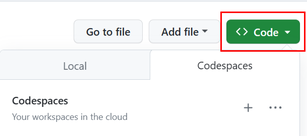
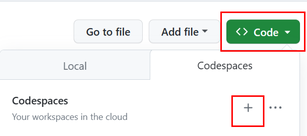
Reorder steps. Fix image.

Changed region(s): [[0.7329, 0.6765, 0.8795, 0.9412]]

diff --git a/articles/python/configure-python-web-app-codespaces.md b/articles/python/configure-python-web-app-codespaces.md
@@ -24,24 +24,24 @@ There are many possible paths to create and use GitHub Codespaces. This tutorial
 
 1. Go to sample app repo at [https://github.com/Azure-Samples/msdocs-fastapi-postgres-codespace][0].
 
-    The sample repo has all the configuration needed to create a FastAPI app with a Postgres database environment and run them in an environment. You can create a similar project following the steps in [Setting up a Python project for GitHub Codespaces][8].
+    The sample repo has all the configuration needed to create an environment with FastAPI app using a Postgres database. You can create a similar project following the steps in [Setting up a Python project for GitHub Codespaces][8].
 
 1. Select **Code**, **Codespaces** tab, and **+** to create a new codespace.
 
     :::image type="content" source="./media/codespaces-tutorial/create-codespaces-small.png" alt-text="Create a codespaces from GitHub repo." lightbox="./media/codespaces-tutorial/create-codespaces.png":::
     
-1. When the container finishes building, codespace is running in a browser with the sample project.
+1. When the container finishes building, a codespace is running in a browser with the sample project.
 
     A codespace is a development environment that's hosted in the cloud. The configuration key files are *devcontainer.json*, *Dockerfile*, and *docker-compose.yml*. For more information, see [GitHub Codespaces overview][1].
 
     > [!TIP]
-    > You can also run the codespace in a Visual Studio Code. Select **Codespaces** in lower left corner of the browser or (`Ctrl` + `Shift` + `P` / `Ctrl` + `Command` + `P`) and type "Codespaces". Then select **Open in VS Code**. Also, if you stop Codespaces and go back to the repo and open it again in GitHub Codespaces, you can open in VS Code or a browser.
-
-1. Open the Command Palette (`Ctrl` + `Shift` + `P` / `Ctrl` + `Command` + `P`) and type "Terminal: Create New Terminal" and select to create a new terminal.
-
-1. Select the **PORTS** in the terminal window to show that PostgreSQL is running on port 5432.
+    > You can also run the codespace in Visual Studio Code. Select **Codespaces** in lower left corner of the browser or (`Ctrl` + `Shift` + `P` / `Ctrl` + `Command` + `P`) and type "Codespaces". Then select **Open in VS Code**. Also, if you stop the codespace and go back to the repo and open it again in GitHub Codespaces, you have the option to open it in VS Code or a browser.
 
 1. Select the *.env.devcontainer* file and create a copy called *.env* with the same contents.
+
+1. Open the Command Palette (`Ctrl` + `Shift` + `P` / `Ctrl` + `Command` + `P`), type "Terminal: Create New Terminal", and select it to create a new terminal.
+
+1. Select the **PORTS** tab in the terminal window to show that PostgreSQL is running on port 5432.
 
 1. In the terminal window, run the FastAPI app.
 
